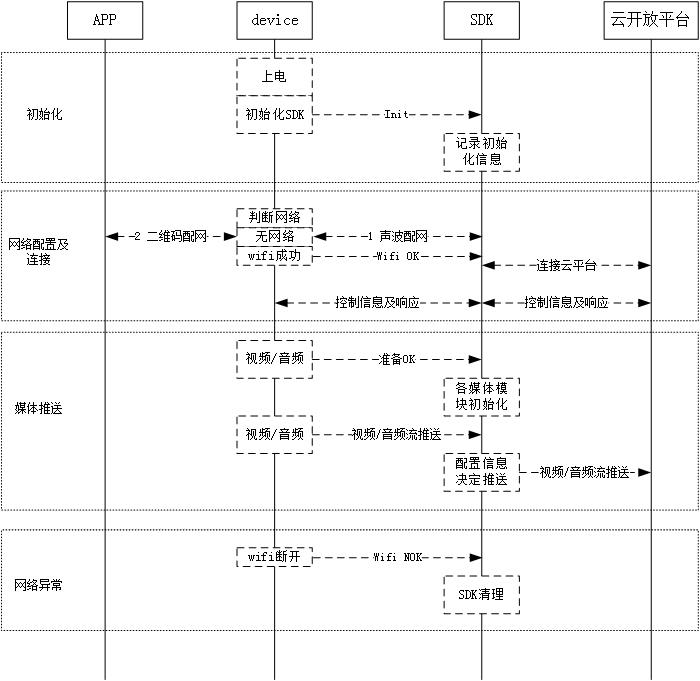
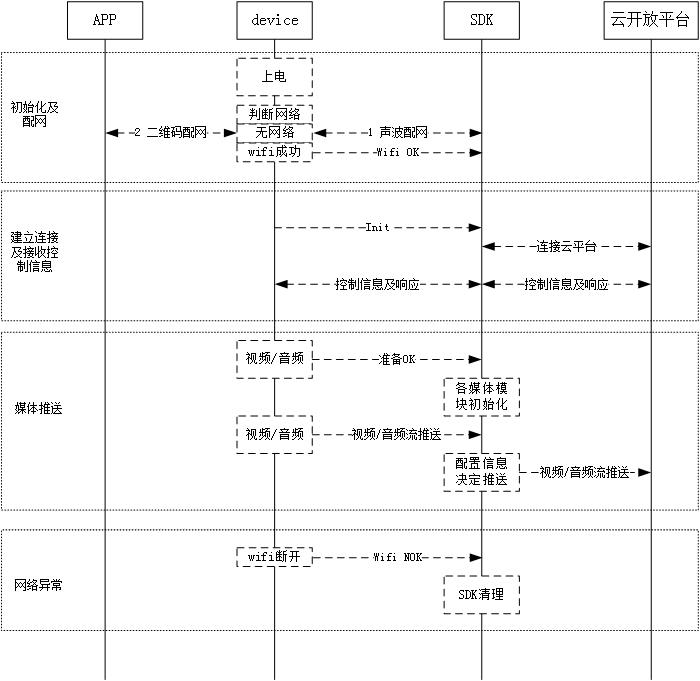
修改标题，初始化传入P2P网络

diff --git a/docs/OVD_OPEN_API.md b/docs/OVD_OPEN_API.md
@@ -1,8 +1,9 @@
-# 一、设备端开放SDK集成接口说明
+# SDK对外开放API接口说明
+## 一、设备端开放SDK集成接口说明
 **本文档描述了开放SDK与本地视音频设备之间的交互接口， 通过本说明，本地视音频设备可以通过SDK提供的统一接入能力接入到开放云平台，提供相应的服务及设置。**
 
    
-# 二、接口文档概述
+## 二、接口文档概述
 ## 开放SDK在系统中的位置
 ![SDK在系统中的位置](SDKsysarch.jpg)
 
@@ -15,15 +16,15 @@
 ### 库文件 
 
 
-# 三、接口详细描述
+## 三、接口详细描述
 ## 1、 SDK初始化
 ### 接口定义
-**`int32_t OVDInit(OVD_DEVType type, OVC_NETParm netParam, OVD_CallBackFunList *pCallBackFunList)`**
+**`int32_t OVDInit(OVD_DEVType type, OVDNetParam netParam, OVD_CallBackFunList callBackFunList)`**
 
 ### 参数说明：
-    [in]type:              设备类型，详细可见枚举类型RT_DevType
-    [in]netParam:          云服务器地址及端口号，见OVC_NETParm结构体
-    [in]pCallBackFunList:  提供给服务器端调用的回调函数，以相应服务器端的请求，见OVD_CallBackFunList。   注：若未提供相关的回调函数，则相关请求被丢弃，及设备端不提供对应的功能。
+    [in]type:              设备类型，详细可见枚举类型OVD_DevType
+    [in]netParam:          云服务器地址及端口号，见OVDNetParam结构体
+    [in]callBackFunList:   提供给服务器端调用的回调函数，以相应服务器端的请求，见OVD_CallBackFunList。   注：若未提供相关的回调函数，则相关请求被丢弃，及设备端不提供对应的功能。
 ### 返回值：
     成功：0
     失败：其他值
@@ -326,13 +327,13 @@
         //获取SD卡信息
         /*
         **参数说明:
-        **    无
+        **    [out]sdInfo:   存储卡信息,详细可见结构体描述OVDSDInfo
         **    
         **返回值：
-        **    成功：存储卡信息,详细可见结构体描述OVDSDInfo
-        **    失败：NULL
+        **    成功：0
+        **    失败：其他值
         */
-        OVDSDInfo (*OVDGetSDInfo)()
+        int32_t (*OVDGetSDInfo)(OVDSDInfo *sdInfo)
 
 
         //格式化SD卡
@@ -641,11 +642,6 @@
         DevType_PtzCamera= 15     //球机
         DevType_Other,
     }OVD_DEVType;
-
-    typedef struct _OVC_NETParm{
-        char passDomain[128];    //<云服务器域名>
-        unsigned int passPort;   //<云服务器端口>
-    }OVC_NETParm;
 
     typedef struct _OVD_UpLoadAlarmInfo
     {
